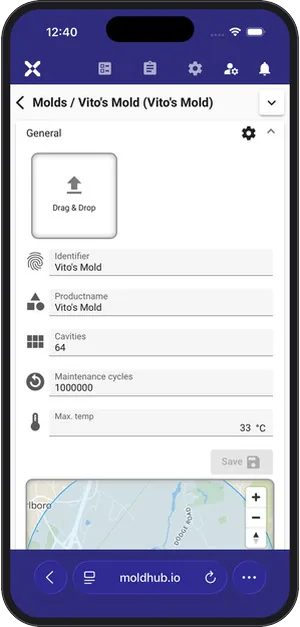
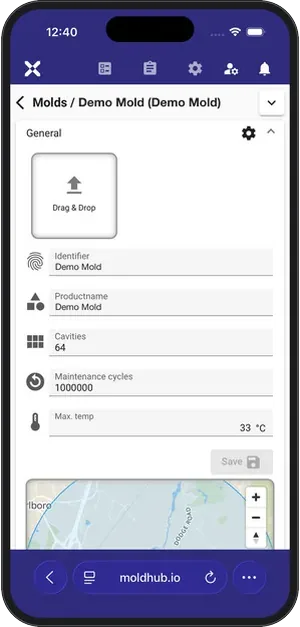
moldMIND X page: replace mold name in phone screenshot, add retrofit and NFC details

Changed region(s): [[0.24, 0.1515, 0.75, 0.1818], [0.18, 0.3939, 0.33, 0.4545], [0.18, 0.4848, 0.33, 0.5152]]

diff --git a/moldmind/index.html b/moldmind/index.html
@@ -138,7 +138,7 @@
           <tr><th>Function</th><td>Cycle counter and asset tracker for injection molds</td></tr>
           <tr><th>Measures</th><td>Cycles, cycle time, temperature and location; notices removal from the mold</td></tr>
           <tr><th>Data transfer</th><td>LTE-M / NB-IoT to moldHUB, by default once per hour</td></tr>
-          <tr><th>Without network</th><td>Cycle count by NFC (13.56 MHz) with a smartphone</td></tr>
+          <tr><th>Without network</th><td>Cycle count by NFC (13.56 MHz): the smartphone passes it on to moldHUB</td></tr>
           <tr><th>Power</th><td>Two Li-Ion cells (16340, 850 mAh), charged by USB-C</td></tr>
           <tr><th>Battery life</th><td>Several months</td></tr>
           <tr><th>Housing</th><td>Nylon, 85 × 38 × 45.6 mm, IP5X</td></tr>
@@ -188,7 +188,7 @@
           <div class="node hl">Phone or tablet<small>install moldHUB as an app</small></div>
           <div class="node">Laptop or PC<small>Chrome, Firefox or Safari</small></div>
           <div class="node">Alerts<small>in the app and by e-mail</small></div>
-          <div class="node">Smartphone with NFC<small>reads the cycle count at the mold, without network</small></div>
+          <div class="node">Smartphone with NFC<small>reads the cycle count at the mold and passes it on to moldHUB</small></div>
         </div>
       </div>
     </div>
@@ -224,6 +224,7 @@
           <li><span><strong>Close the mold once.</strong> A blue LED flashes briefly. This confirms that the cycle pin is moved correctly.</span></li>
           <li><span><strong>Link it to the mold in moldHUB.</strong> Use NFC, the serial number or a QR code.</span></li>
           <li><span><strong>Read the data.</strong> The device sends the cycle count, cycle time, temperature and location to moldHUB, by default once per hour.</span></li>
+          <li><span><strong>No network or low battery?</strong> Hold your smartphone to the NFC logo on the device. The phone reads the cycle count and passes it on to moldHUB.</span></li>
         </ol>
         <ul class="benefits"><li>No wiring to the machine</li><li>Counts without network</li><li>Battery lasts several months</li></ul>
       </div>
@@ -357,7 +358,7 @@
     <div class="section-head reveal">
       <p class="eyebrow">The device</p>
       <h2 id="device-title">Small enough for a pocket in the mold.</h2>
-      <p class="lead">The moldMIND X is installed in a pocket of the mold. It needs no cables to the machine and no display: moldHUB is where you see the results.</p>
+      <p class="lead">The moldMIND X is installed in a pocket of the mold. It also fits the existing pockets of classic mechanical cycle counters, so you can retrofit molds you already have. It needs no cables to the machine and no display: moldHUB is where you see the results.</p>
     </div>
     <div class="device-grid">
       <div class="reveal">
@@ -391,7 +392,7 @@
     </div>
     <div class="facts">
       <div class="fact reveal"><h4>Charge by USB-C</h4><p>Connect a USB-C cable and a charger of up to 1 A. A charge typically takes less than 30 minutes.</p></div>
-      <div class="fact reveal" style="--d:.06s"><h4>Read it by NFC</h4><p>Hold a smartphone to the NFC area to read the cycle count, also where there is no mobile network. The value is updated at least once per hour.</p></div>
+      <div class="fact reveal" style="--d:.06s"><h4>Read it by NFC</h4><p>Hold your smartphone to the NFC logo on the device. The phone reads the cycle count and passes it on to moldHUB, so the data arrives even when the device has no mobile reception or the battery is low. The value on the device is updated at least once per hour.</p></div>
       <div class="fact reveal" style="--d:.12s"><h4>Update over USB-C</h4><p>New firmware comes as a file from Männer and is copied to the device over the USB-C port.</p></div>
     </div>
   </div>

diff --git a/scripts/templates/moldmind.html b/scripts/templates/moldmind.html
@@ -138,7 +138,7 @@
           <tr><th>Function</th><td>Cycle counter and asset tracker for injection molds</td></tr>
           <tr><th>Measures</th><td>Cycles, cycle time, temperature and location; notices removal from the mold</td></tr>
           <tr><th>Data transfer</th><td>LTE-M / NB-IoT to moldHUB, by default once per hour</td></tr>
-          <tr><th>Without network</th><td>Cycle count by NFC (13.56 MHz) with a smartphone</td></tr>
+          <tr><th>Without network</th><td>Cycle count by NFC (13.56 MHz): the smartphone passes it on to moldHUB</td></tr>
           <tr><th>Power</th><td>Two Li-Ion cells (16340, 850 mAh), charged by USB-C</td></tr>
           <tr><th>Battery life</th><td>Several months</td></tr>
           <tr><th>Housing</th><td>Nylon, 85 × 38 × 45.6 mm, IP5X</td></tr>
@@ -188,7 +188,7 @@
           <div class="node hl">Phone or tablet<small>install moldHUB as an app</small></div>
           <div class="node">Laptop or PC<small>Chrome, Firefox or Safari</small></div>
           <div class="node">Alerts<small>in the app and by e-mail</small></div>
-          <div class="node">Smartphone with NFC<small>reads the cycle count at the mold, without network</small></div>
+          <div class="node">Smartphone with NFC<small>reads the cycle count at the mold and passes it on to moldHUB</small></div>
         </div>
       </div>
     </div>
@@ -224,6 +224,7 @@
           <li><span><strong>Close the mold once.</strong> A blue LED flashes briefly. This confirms that the cycle pin is moved correctly.</span></li>
           <li><span><strong>Link it to the mold in moldHUB.</strong> Use NFC, the serial number or a QR code.</span></li>
           <li><span><strong>Read the data.</strong> The device sends the cycle count, cycle time, temperature and location to moldHUB, by default once per hour.</span></li>
+          <li><span><strong>No network or low battery?</strong> Hold your smartphone to the NFC logo on the device. The phone reads the cycle count and passes it on to moldHUB.</span></li>
         </ol>
         <ul class="benefits"><li>No wiring to the machine</li><li>Counts without network</li><li>Battery lasts several months</li></ul>
       </div>
@@ -357,7 +358,7 @@
     <div class="section-head reveal">
       <p class="eyebrow">The device</p>
       <h2 id="device-title">Small enough for a pocket in the mold.</h2>
-      <p class="lead">The moldMIND X is installed in a pocket of the mold. It needs no cables to the machine and no display: moldHUB is where you see the results.</p>
+      <p class="lead">The moldMIND X is installed in a pocket of the mold. It also fits the existing pockets of classic mechanical cycle counters, so you can retrofit molds you already have. It needs no cables to the machine and no display: moldHUB is where you see the results.</p>
     </div>
     <div class="device-grid">
       <div class="reveal">
@@ -391,7 +392,7 @@
     </div>
     <div class="facts">
       <div class="fact reveal"><h4>Charge by USB-C</h4><p>Connect a USB-C cable and a charger of up to 1 A. A charge typically takes less than 30 minutes.</p></div>
-      <div class="fact reveal" style="--d:.06s"><h4>Read it by NFC</h4><p>Hold a smartphone to the NFC area to read the cycle count, also where there is no mobile network. The value is updated at least once per hour.</p></div>
+      <div class="fact reveal" style="--d:.06s"><h4>Read it by NFC</h4><p>Hold your smartphone to the NFC logo on the device. The phone reads the cycle count and passes it on to moldHUB, so the data arrives even when the device has no mobile reception or the battery is low. The value on the device is updated at least once per hour.</p></div>
       <div class="fact reveal" style="--d:.12s"><h4>Update over USB-C</h4><p>New firmware comes as a file from Männer and is copied to the device over the USB-C port.</p></div>
     </div>
   </div>

diff --git a/moldmind/de/index.html b/moldmind/de/index.html
@@ -132,7 +132,7 @@
 <tr><th>Funktion</th><td>Zykluszähler und Asset-Tracker für Spritzgießwerkzeuge</td></tr>
 <tr><th>Misst</th><td>Zyklen, Zykluszeit, Temperatur und Standort; erkennt die Entnahme aus dem Werkzeug</td></tr>
 <tr><th>Datenübertragung</th><td>LTE-M / NB-IoT an moldHUB, standardmäßig einmal pro Stunde</td></tr>
-<tr><th>Ohne Netz</th><td>Zyklenstand per NFC (13,56 MHz) mit einem Smartphone</td></tr>
+<tr><th>Ohne Netz</th><td>Zyklenstand per NFC (13,56 MHz): Das Smartphone leitet ihn an moldHUB weiter</td></tr>
 <tr><th>Stromversorgung</th><td>Zwei Li-Ion-Zellen (16340, 850 mAh), geladen über USB-C</td></tr>
 <tr><th>Akkulaufzeit</th><td>Mehrere Monate</td></tr>
 <tr><th>Gehäuse</th><td>Nylon, 85 × 38 × 45,6 mm, IP5X</td></tr>
@@ -181,7 +181,7 @@
 <div class="node hl">Smartphone oder Tablet<small>moldHUB als App installieren</small></div>
 <div class="node">Laptop oder PC<small>Chrome, Firefox oder Safari</small></div>
 <div class="node">Benachrichtigungen<small>in der App und per E-Mail</small></div>
-<div class="node">Smartphone mit NFC<small>liest den Zyklenstand am Werkzeug, ohne Netz</small></div>
+<div class="node">Smartphone mit NFC<small>liest den Zyklenstand am Werkzeug und leitet ihn an moldHUB weiter</small></div>
 </div>
 </div>
 </div>
@@ -214,6 +214,7 @@
 <li><span><strong>Werkzeug einmal schließen.</strong> Eine blaue LED blinkt kurz. Das bestätigt, dass der Zyklusstift richtig bewegt wird.</span></li>
 <li><span><strong>In moldHUB mit dem Werkzeug verknüpfen.</strong> Per NFC, Seriennummer oder QR-Code.</span></li>
 <li><span><strong>Daten lesen.</strong> Das Gerät sendet Zyklenstand, Zykluszeit, Temperatur und Standort standardmäßig einmal pro Stunde an moldHUB.</span></li>
+<li><span><strong>Kein Netz oder Akku schwach?</strong> Halten Sie Ihr Smartphone an das NFC-Logo am Gerät. Das Smartphone liest den Zyklenstand und leitet ihn an moldHUB weiter.</span></li>
 </ol>
 <ul class="benefits"><li>Keine Verkabelung zur Maschine</li><li>Zählt auch ohne Netz</li><li>Akku hält mehrere Monate</li></ul>
 </div>
@@ -341,7 +342,7 @@
 <div class="section-head reveal">
 <p class="eyebrow">Das Gerät</p>
 <h2 id="device-title">Klein genug für eine Tasche im Werkzeug.</h2>
-<p class="lead">Der moldMIND X wird in einer Tasche des Werkzeugs installiert. Er braucht keine Kabel zur Maschine und kein Display: Die Ergebnisse sehen Sie in moldHUB.</p>
+<p class="lead">Der moldMIND X wird in einer Tasche des Werkzeugs installiert. Er passt auch in die vorhandenen Taschen klassischer mechanischer Zykluszähler, sodass Sie Werkzeuge, die Sie bereits haben, nachrüsten können. Er braucht keine Kabel zur Maschine und kein Display: Die Ergebnisse sehen Sie in moldHUB.</p>
 </div>
 <div class="device-grid">
 <div class="reveal">
@@ -375,7 +376,7 @@
 </div>
 <div class="facts">
 <div class="fact reveal"><h4>Laden über USB-C</h4><p>Schließen Sie ein USB-C-Kabel und ein Ladegerät mit bis zu 1 A an. Eine Ladung dauert typischerweise weniger als 30 Minuten.</p></div>
-<div class="fact reveal" style="--d:.06s"><h4>Auslesen per NFC</h4><p>Halten Sie ein Smartphone an den NFC-Bereich, um den Zyklenstand zu lesen, auch dort, wo es kein Mobilfunknetz gibt. Der Wert wird mindestens einmal pro Stunde aktualisiert.</p></div>
+<div class="fact reveal" style="--d:.06s"><h4>Auslesen per NFC</h4><p>Halten Sie Ihr Smartphone an das NFC-Logo am Gerät. Das Smartphone liest den Zyklenstand und leitet ihn an moldHUB weiter, sodass die Daten auch dann ankommen, wenn das Gerät keinen Mobilfunkempfang hat oder der Akku schwach ist. Der Wert im Gerät wird mindestens einmal pro Stunde aktualisiert.</p></div>
 <div class="fact reveal" style="--d:.12s"><h4>Update über USB-C</h4><p>Neue Firmware kommt als Datei von Männer und wird über den USB-C-Anschluss auf das Gerät kopiert.</p></div>
 </div>
 </div>

diff --git a/moldmind/it/index.html b/moldmind/it/index.html
@@ -132,7 +132,7 @@
 <tr><th>Funzione</th><td>Contacicli e asset tracker per stampi a iniezione</td></tr>
 <tr><th>Misura</th><td>Cicli, tempo di ciclo, temperatura e posizione; riconosce la rimozione dallo stampo</td></tr>
 <tr><th>Trasmissione dei dati</th><td>LTE-M / NB-IoT verso moldHUB, per impostazione predefinita una volta all’ora</td></tr>
-<tr><th>Senza rete</th><td>Numero di cicli tramite NFC (13,56 MHz) con uno smartphone</td></tr>
+<tr><th>Senza rete</th><td>Numero di cicli tramite NFC (13,56 MHz): lo smartphone lo inoltra a moldHUB</td></tr>
 <tr><th>Alimentazione</th><td>Due celle Li-Ion (16340, 850 mAh), ricaricate tramite USB-C</td></tr>
 <tr><th>Autonomia della batteria</th><td>Diversi mesi</td></tr>
 <tr><th>Alloggiamento</th><td>Nylon, 85 × 38 × 45,6 mm, IP5X</td></tr>
@@ -181,7 +181,7 @@
 <div class="node hl">Smartphone o tablet<small>installate moldHUB come app</small></div>
 <div class="node">Laptop o PC<small>Chrome, Firefox o Safari</small></div>
 <div class="node">Notifiche<small>nell’app e via e-mail</small></div>
-<div class="node">Smartphone con NFC<small>legge il numero di cicli sullo stampo, senza rete</small></div>
+<div class="node">Smartphone con NFC<small>legge il numero di cicli sullo stampo e lo inoltra a moldHUB</small></div>
 </div>
 </div>
 </div>
@@ -214,6 +214,7 @@
 <li><span><strong>Chiudete lo stampo una volta.</strong> Un LED blu lampeggia brevemente. Ciò conferma che il perno di ciclo viene mosso correttamente.</span></li>
 <li><span><strong>Collegatelo allo stampo in moldHUB.</strong> Tramite NFC, numero di serie o codice QR.</span></li>
 <li><span><strong>Leggete i dati.</strong> Il dispositivo invia a moldHUB numero di cicli, tempo di ciclo, temperatura e posizione, per impostazione predefinita una volta all’ora.</span></li>
+<li><span><strong>Nessuna rete o batteria scarica?</strong> Avvicinate lo smartphone al logo NFC sul dispositivo. Lo smartphone legge il numero di cicli e lo inoltra a moldHUB.</span></li>
 </ol>
 <ul class="benefits"><li>Nessun cablaggio verso la macchina</li><li>Conta anche senza rete</li><li>La batteria dura diversi mesi</li></ul>
 </div>
@@ -341,7 +342,7 @@
 <div class="section-head reveal">
 <p class="eyebrow">Il dispositivo</p>
 <h2 id="device-title">Abbastanza piccolo per una tasca nello stampo.</h2>
-<p class="lead">Il moldMIND X si installa in una tasca dello stampo. Non servono cavi verso la macchina né un display: i risultati li vedete in moldHUB.</p>
+<p class="lead">Il moldMIND X si installa in una tasca dello stampo. Si adatta anche alle tasche esistenti dei classici contacicli meccanici, così potete ammodernare gli stampi che avete già. Non servono cavi verso la macchina né un display: i risultati li vedete in moldHUB.</p>
 </div>
 <div class="device-grid">
 <div class="reveal">
@@ -375,7 +376,7 @@
 </div>
 <div class="facts">
 <div class="fact reveal"><h4>Ricarica tramite USB-C</h4><p>Collegate un cavo USB-C e un caricabatterie fino a 1 A. Una ricarica richiede in genere meno di 30 minuti.</p></div>
-<div class="fact reveal" style="--d:.06s"><h4>Lettura tramite NFC</h4><p>Avvicinate uno smartphone all’area NFC per leggere il numero di cicli, anche dove non c’è rete mobile. Il valore viene aggiornato almeno una volta all’ora.</p></div>
+<div class="fact reveal" style="--d:.06s"><h4>Lettura tramite NFC</h4><p>Avvicinate lo smartphone al logo NFC sul dispositivo. Lo smartphone legge il numero di cicli e lo inoltra a moldHUB, così i dati arrivano anche quando il dispositivo non ha copertura mobile o la batteria è scarica. Il valore sul dispositivo viene aggiornato almeno una volta all’ora.</p></div>
 <div class="fact reveal" style="--d:.12s"><h4>Aggiornamento tramite USB-C</h4><p>Il nuovo firmware arriva come file da Männer e viene copiato sul dispositivo tramite la porta USB-C.</p></div>
 </div>
 </div>
